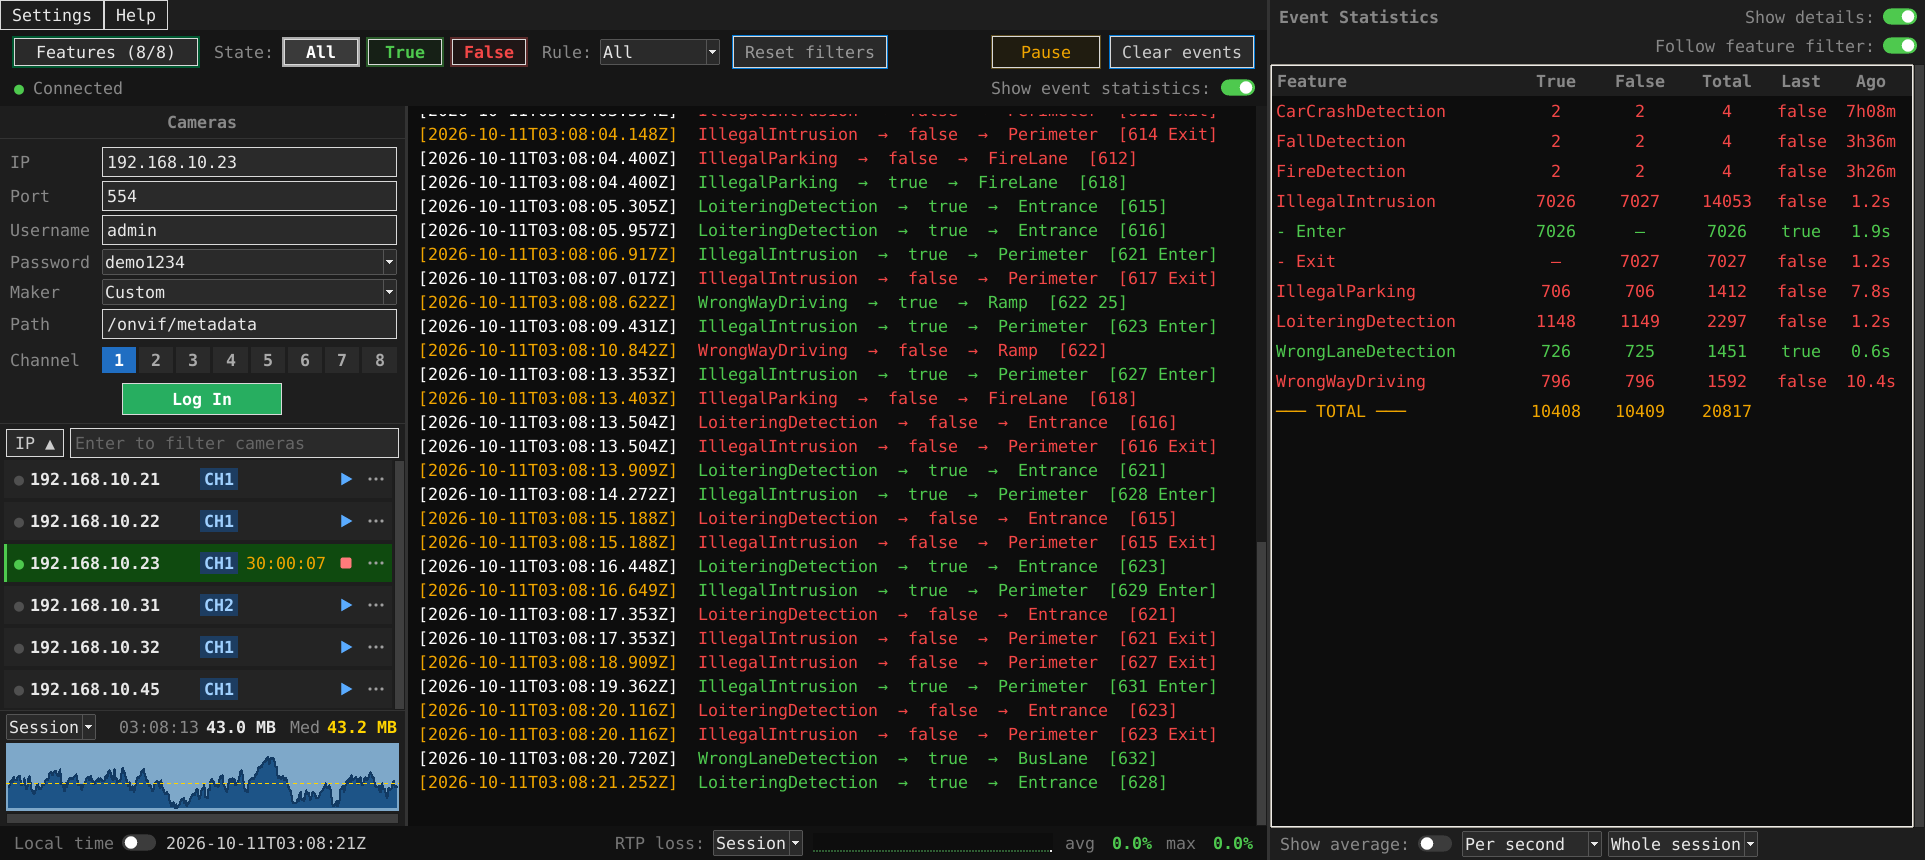
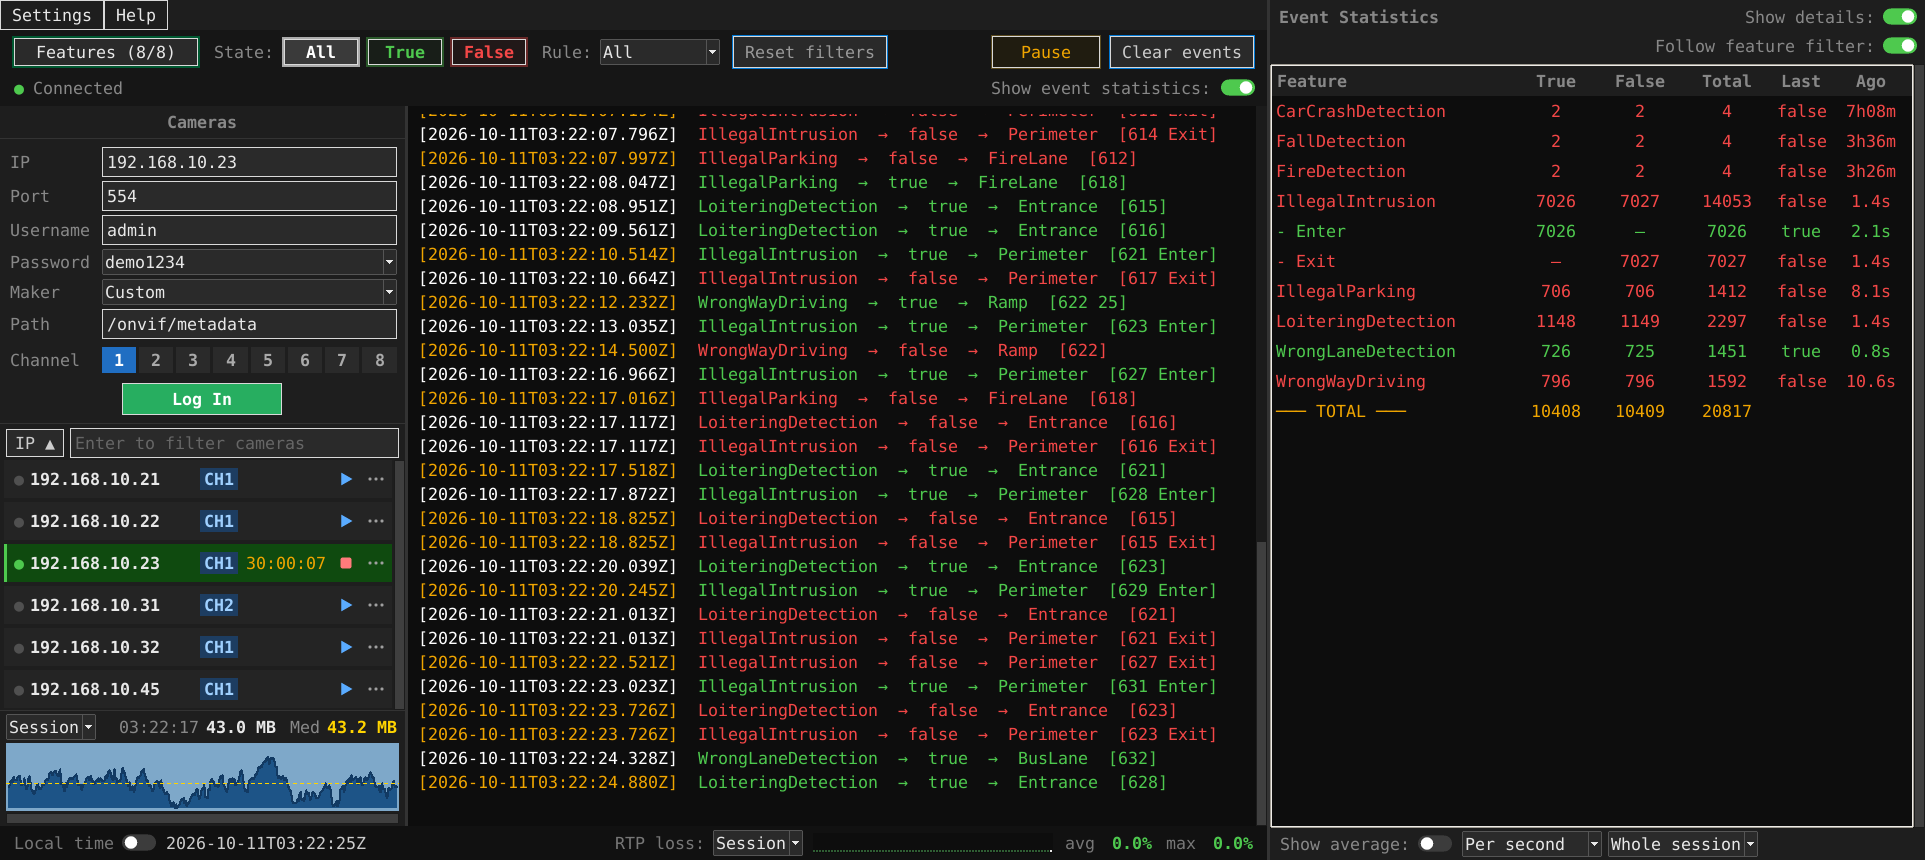
Screenshots: the picked event color ringed, toolbar in the event colors

Changed region(s): [[0.2182, 0.1209, 0.3429, 0.9372], [0.1558, 0.9674, 0.187, 0.9977]]

diff --git a/index.html b/index.html
@@ -346,7 +346,7 @@ const DEMO_VIDEO = "media/demo.mp4";
 const DEMO_POSTER = "media/demo.jpg";
 // The screenshots' revision: tools/demo_screenshots.py sets it when it saves new
 // ones, so browsers and the Pages CDN fetch them again instead of a cached copy.
-const MEDIA_REV = "202610110309";
+const MEDIA_REV = "202610110323";
 const SCREENSHOTS = [
   ["media/screenshot-1.png", "Main window after 30 hours: cameras, live event log, memory and RTP loss"],
   ["media/screenshot-2.png", "Choose the camera's maker: the path of its metadata stream is filled in"],
